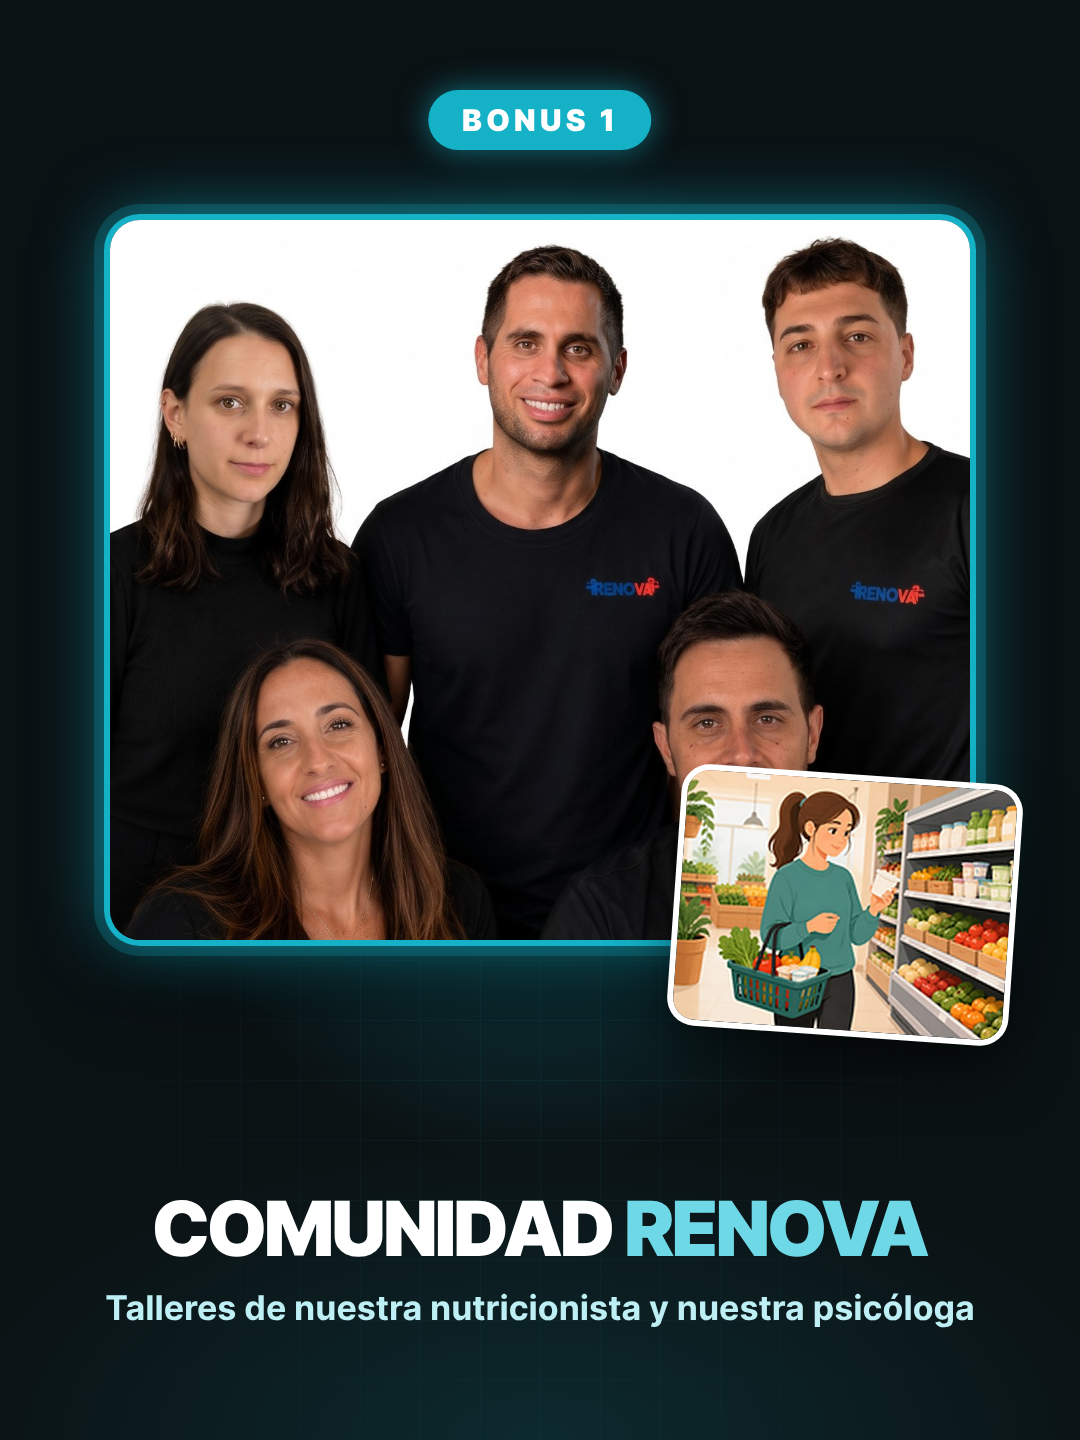
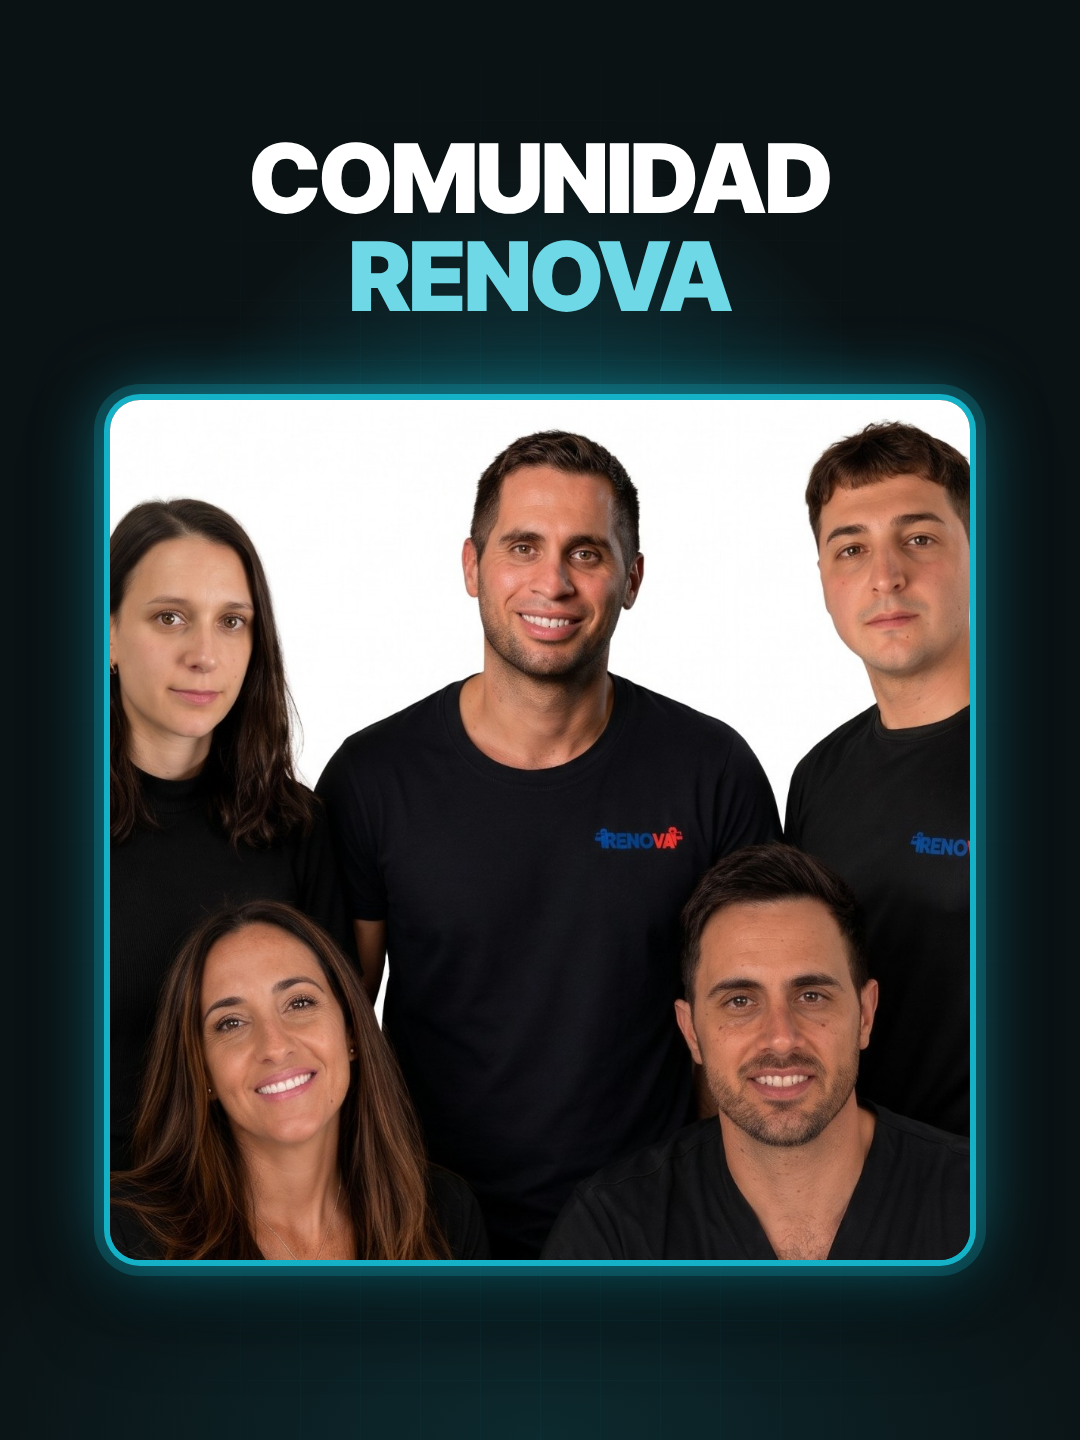
Sin TACC: portadas de bonus y upsell sin títulos; comunidad con título arriba y sin la ilustración
Claude-Session: https://claude.ai/code/session_016d9STMTFsB819XAn27rxwK

diff --git a/fuentes/landing/mockups/upsell_entrenamiento.html b/fuentes/landing/mockups/upsell_entrenamiento.html
@@ -115,7 +115,7 @@ body{width:var(--w);height:var(--h);overflow:hidden;position:relative;
 .shadow{position:absolute;height:70px;border-radius:50%;background:radial-gradient(ellipse,rgba(0,0,0,.75),transparent 70%)}
 
 .tag{position:absolute;left:50%;top:90px;transform:translateX(-50%);z-index:9;background:#14B1C7;color:#fff;font:900 30px InterTightW,sans-serif;letter-spacing:.16em;padding:12px 34px;border-radius:999px;box-shadow:0 0 30px rgba(20,177,199,.6)}
-.tit{position:absolute;left:60px;right:60px;bottom:110px;z-index:9;text-align:center;color:#fff;font:900 76px/1.02 InterTightW,sans-serif;text-transform:uppercase;letter-spacing:-.02em}
+.tit{position:absolute;left:60px;right:60px;bottom:110px;z-index:9;text-align:center;color:#fff;font:900 96px/1.02 InterTightW,sans-serif;text-transform:uppercase;letter-spacing:-.02em}
 .tit b{color:#6FD8E6}.tit small{display:block;margin-top:18px;font:700 34px/1.3 InterW,sans-serif;text-transform:none;letter-spacing:0;color:#BDEFF5}
 .foto{position:absolute;left:110px;right:110px;top:220px;height:720px;border-radius:30px;overflow:hidden;z-index:5;
  box-shadow:0 0 0 6px #14B1C7,0 0 0 16px rgba(20,177,199,.22),0 0 70px rgba(20,177,199,.7),0 40px 80px rgba(0,0,0,.6)}
@@ -123,4 +123,4 @@ body{width:var(--w);height:var(--h);overflow:hidden;position:relative;
 .mini{position:absolute;right:70px;top:780px;width:330px;height:250px;border-radius:22px;overflow:hidden;z-index:6;transform:rotate(4deg);
  box-shadow:0 0 0 6px #fff,0 30px 60px rgba(0,0,0,.6)}
 .mini img{width:100%;height:100%;object-fit:cover}
-body{--w:1080px;--h:1440px}</style><div class="grid"></div><div class="st"><span class="tag">SUMALO A TU COMPRA</span><div class="shadow" style="left:113.5px;top:905px;width:493.5px"></div><div class="bk" style="left:90px;top:260px;width:470px;height:665px;z-index:1;transform:rotateY(-18deg)"><div class="sp" style="width:47px;--fs:20px"><span>ENTRENÁ DESDE CASA</span></div><div class="fr"><img src="pack/tapa_casa.jpg"></div><div class="cn a"></div><div class="cn b"></div></div><div class="shadow" style="left:543.5px;top:875px;width:493.5px"></div><div class="bk" style="left:520px;top:230px;width:470px;height:665px;z-index:2;transform:rotateY(18deg)"><div class="sp r" style="width:47px;--fs:20px"><span>ENTRENÁ EN EL GIMNASIO</span></div><div class="fr"><img src="pack/tapa_gym.jpg"></div><div class="cn a"></div><div class="cn b"></div></div><div class="tit">Entrená en <b>casa o gimnasio</b><small>Planes de 8 semanas, de bajo impacto, con video de cada ejercicio</small></div></div>
+body{--w:1080px;--h:1440px}</style><div class="grid"></div><div class="st"><div class="shadow" style="left:113.5px;top:1045px;width:493.5px"></div><div class="bk" style="left:90px;top:400px;width:470px;height:665px;z-index:1;transform:rotateY(-18deg)"><div class="sp" style="width:47px;--fs:20px"><span>ENTRENÁ DESDE CASA</span></div><div class="fr"><img src="pack/tapa_casa.jpg"></div><div class="cn a"></div><div class="cn b"></div></div><div class="shadow" style="left:543.5px;top:1015px;width:493.5px"></div><div class="bk" style="left:520px;top:370px;width:470px;height:665px;z-index:2;transform:rotateY(18deg)"><div class="sp r" style="width:47px;--fs:20px"><span>ENTRENÁ EN EL GIMNASIO</span></div><div class="fr"><img src="pack/tapa_gym.jpg"></div><div class="cn a"></div><div class="cn b"></div></div></div>

diff --git a/fuentes/landing/mockups/bonus_pausa.html b/fuentes/landing/mockups/bonus_pausa.html
@@ -115,7 +115,7 @@ body{width:var(--w);height:var(--h);overflow:hidden;position:relative;
 .shadow{position:absolute;height:70px;border-radius:50%;background:radial-gradient(ellipse,rgba(0,0,0,.75),transparent 70%)}
 
 .tag{position:absolute;left:50%;top:90px;transform:translateX(-50%);z-index:9;background:#14B1C7;color:#fff;font:900 30px InterTightW,sans-serif;letter-spacing:.16em;padding:12px 34px;border-radius:999px;box-shadow:0 0 30px rgba(20,177,199,.6)}
-.tit{position:absolute;left:60px;right:60px;bottom:110px;z-index:9;text-align:center;color:#fff;font:900 76px/1.02 InterTightW,sans-serif;text-transform:uppercase;letter-spacing:-.02em}
+.tit{position:absolute;left:60px;right:60px;bottom:110px;z-index:9;text-align:center;color:#fff;font:900 96px/1.02 InterTightW,sans-serif;text-transform:uppercase;letter-spacing:-.02em}
 .tit b{color:#6FD8E6}.tit small{display:block;margin-top:18px;font:700 34px/1.3 InterW,sans-serif;text-transform:none;letter-spacing:0;color:#BDEFF5}
 .foto{position:absolute;left:110px;right:110px;top:220px;height:720px;border-radius:30px;overflow:hidden;z-index:5;
  box-shadow:0 0 0 6px #14B1C7,0 0 0 16px rgba(20,177,199,.22),0 0 70px rgba(20,177,199,.7),0 40px 80px rgba(0,0,0,.6)}
@@ -123,4 +123,4 @@ body{width:var(--w);height:var(--h);overflow:hidden;position:relative;
 .mini{position:absolute;right:70px;top:780px;width:330px;height:250px;border-radius:22px;overflow:hidden;z-index:6;transform:rotate(4deg);
  box-shadow:0 0 0 6px #fff,0 30px 60px rgba(0,0,0,.6)}
 .mini img{width:100%;height:100%;object-fit:cover}
-body{--w:1080px;--h:1440px}</style><div class="grid"></div><div class="st"><span class="tag">BONUS 2</span><div class="shadow" style="left:279.0px;top:1000px;width:609.0px"></div><div class="bk" style="left:250px;top:200px;width:580px;height:820px;z-index:1;transform:rotateY(-16deg)"><div class="sp" style="width:58px;--fs:24px"><span>PAUSA ACTIVA</span></div><div class="fr"><img src="pack/tapa_pausa.jpg"></div><div class="cn a"></div><div class="cn b"></div></div><div class="tit">Pausa activa <b>en 10 minutos</b><small>4 rutinas para moverte en casa o en el trabajo</small></div></div>
+body{--w:1080px;--h:1440px}</style><div class="grid"></div><div class="st"><div class="shadow" style="left:279.0px;top:1090px;width:609.0px"></div><div class="bk" style="left:250px;top:290px;width:580px;height:820px;z-index:1;transform:rotateY(-16deg)"><div class="sp" style="width:58px;--fs:24px"><span>PAUSA ACTIVA</span></div><div class="fr"><img src="pack/tapa_pausa.jpg"></div><div class="cn a"></div><div class="cn b"></div></div></div>

diff --git a/fuentes/landing/mockups/bonus_comunidad.html b/fuentes/landing/mockups/bonus_comunidad.html
@@ -115,7 +115,7 @@ body{width:var(--w);height:var(--h);overflow:hidden;position:relative;
 .shadow{position:absolute;height:70px;border-radius:50%;background:radial-gradient(ellipse,rgba(0,0,0,.75),transparent 70%)}
 
 .tag{position:absolute;left:50%;top:90px;transform:translateX(-50%);z-index:9;background:#14B1C7;color:#fff;font:900 30px InterTightW,sans-serif;letter-spacing:.16em;padding:12px 34px;border-radius:999px;box-shadow:0 0 30px rgba(20,177,199,.6)}
-.tit{position:absolute;left:60px;right:60px;bottom:110px;z-index:9;text-align:center;color:#fff;font:900 76px/1.02 InterTightW,sans-serif;text-transform:uppercase;letter-spacing:-.02em}
+.tit{position:absolute;left:60px;right:60px;bottom:110px;z-index:9;text-align:center;color:#fff;font:900 96px/1.02 InterTightW,sans-serif;text-transform:uppercase;letter-spacing:-.02em}
 .tit b{color:#6FD8E6}.tit small{display:block;margin-top:18px;font:700 34px/1.3 InterW,sans-serif;text-transform:none;letter-spacing:0;color:#BDEFF5}
 .foto{position:absolute;left:110px;right:110px;top:220px;height:720px;border-radius:30px;overflow:hidden;z-index:5;
  box-shadow:0 0 0 6px #14B1C7,0 0 0 16px rgba(20,177,199,.22),0 0 70px rgba(20,177,199,.7),0 40px 80px rgba(0,0,0,.6)}
@@ -123,4 +123,4 @@ body{width:var(--w);height:var(--h);overflow:hidden;position:relative;
 .mini{position:absolute;right:70px;top:780px;width:330px;height:250px;border-radius:22px;overflow:hidden;z-index:6;transform:rotate(4deg);
  box-shadow:0 0 0 6px #fff,0 30px 60px rgba(0,0,0,.6)}
 .mini img{width:100%;height:100%;object-fit:cover}
-body{--w:1080px;--h:1440px}</style><div class="grid"></div><div class="st"><span class="tag">BONUS 1</span><div class="foto"><img src="../img/comunidad.jpg"></div><div class="mini"><img src="../img/taller_super.jpg"></div><div class="tit">Comunidad <b>RENOVA</b><small>Talleres de nuestra nutricionista y nuestra psicóloga</small></div></div>
+body{--w:1080px;--h:1440px}</style><div class="grid"></div><div class="st"><div class="tit" style="top:130px;bottom:auto">Comunidad <b>RENOVA</b></div><div class="foto" style="top:400px;height:860px"><img src="../img/comunidad.jpg"></div></div>

diff --git a/fuentes/landing/mockups/tienda_sintacc_extras.py b/fuentes/landing/mockups/tienda_sintacc_extras.py
@@ -8,7 +8,7 @@ with contextlib.redirect_stdout(io.StringIO()):
     from libros3d import CSS, book
 EXTRA = """
 .tag{position:absolute;left:50%;top:90px;transform:translateX(-50%);z-index:9;background:#14B1C7;color:#fff;font:900 30px InterTightW,sans-serif;letter-spacing:.16em;padding:12px 34px;border-radius:999px;box-shadow:0 0 30px rgba(20,177,199,.6)}
-.tit{position:absolute;left:60px;right:60px;bottom:110px;z-index:9;text-align:center;color:#fff;font:900 76px/1.02 InterTightW,sans-serif;text-transform:uppercase;letter-spacing:-.02em}
+.tit{position:absolute;left:60px;right:60px;bottom:110px;z-index:9;text-align:center;color:#fff;font:900 96px/1.02 InterTightW,sans-serif;text-transform:uppercase;letter-spacing:-.02em}
 .tit b{color:#6FD8E6}.tit small{display:block;margin-top:18px;font:700 34px/1.3 InterW,sans-serif;text-transform:none;letter-spacing:0;color:#BDEFF5}
 .foto{position:absolute;left:110px;right:110px;top:220px;height:720px;border-radius:30px;overflow:hidden;z-index:5;
  box-shadow:0 0 0 6px #14B1C7,0 0 0 16px rgba(20,177,199,.22),0 0 70px rgba(20,177,199,.7),0 40px 80px rgba(0,0,0,.6)}
@@ -20,13 +20,9 @@ EXTRA = """
 def page(name, inner):
     Path(name + ".html").write_text(f'<!doctype html><meta charset="utf-8"><style>{CSS}{EXTRA}body{{--w:1080px;--h:1440px}}</style>'
                                     f'<div class="grid"></div><div class="st">{inner}</div>', encoding="utf-8")
-page("bonus_comunidad", '<span class="tag">BONUS 1</span>'
-     '<div class="foto"><img src="../img/comunidad.jpg"></div><div class="mini"><img src="../img/taller_super.jpg"></div>'
-     '<div class="tit">Comunidad <b>RENOVA</b><small>Talleres de nuestra nutricionista y nuestra psicóloga</small></div>')
-page("bonus_pausa", '<span class="tag">BONUS 2</span>' + book("tapa_pausa.jpg", "PAUSA ACTIVA", 250, 200, 580, -16)
-     + '<div class="tit">Pausa activa <b>en 10 minutos</b><small>4 rutinas para moverte en casa o en el trabajo</small></div>')
-page("upsell_entrenamiento", '<span class="tag">SUMALO A TU COMPRA</span>'
-     + book("tapa_casa.jpg", "ENTRENÁ DESDE CASA", 90, 260, 470, -18, 1)
-     + book("tapa_gym.jpg", "ENTRENÁ EN EL GIMNASIO", 520, 230, 470, 18, 2)
-     + '<div class="tit">Entrená en <b>casa o gimnasio</b><small>Planes de 8 semanas, de bajo impacto, con video de cada ejercicio</small></div>')
+page("bonus_comunidad", '<div class="tit" style="top:130px;bottom:auto">Comunidad <b>RENOVA</b></div>'
+     '<div class="foto" style="top:400px;height:860px"><img src="../img/comunidad.jpg"></div>')
+page("bonus_pausa", book("tapa_pausa.jpg", "PAUSA ACTIVA", 250, 290, 580, -16))
+page("upsell_entrenamiento", book("tapa_casa.jpg", "ENTRENÁ DESDE CASA", 90, 400, 470, -18, 1)
+     + book("tapa_gym.jpg", "ENTRENÁ EN EL GIMNASIO", 520, 370, 470, 18, 2))
 print("ok")
